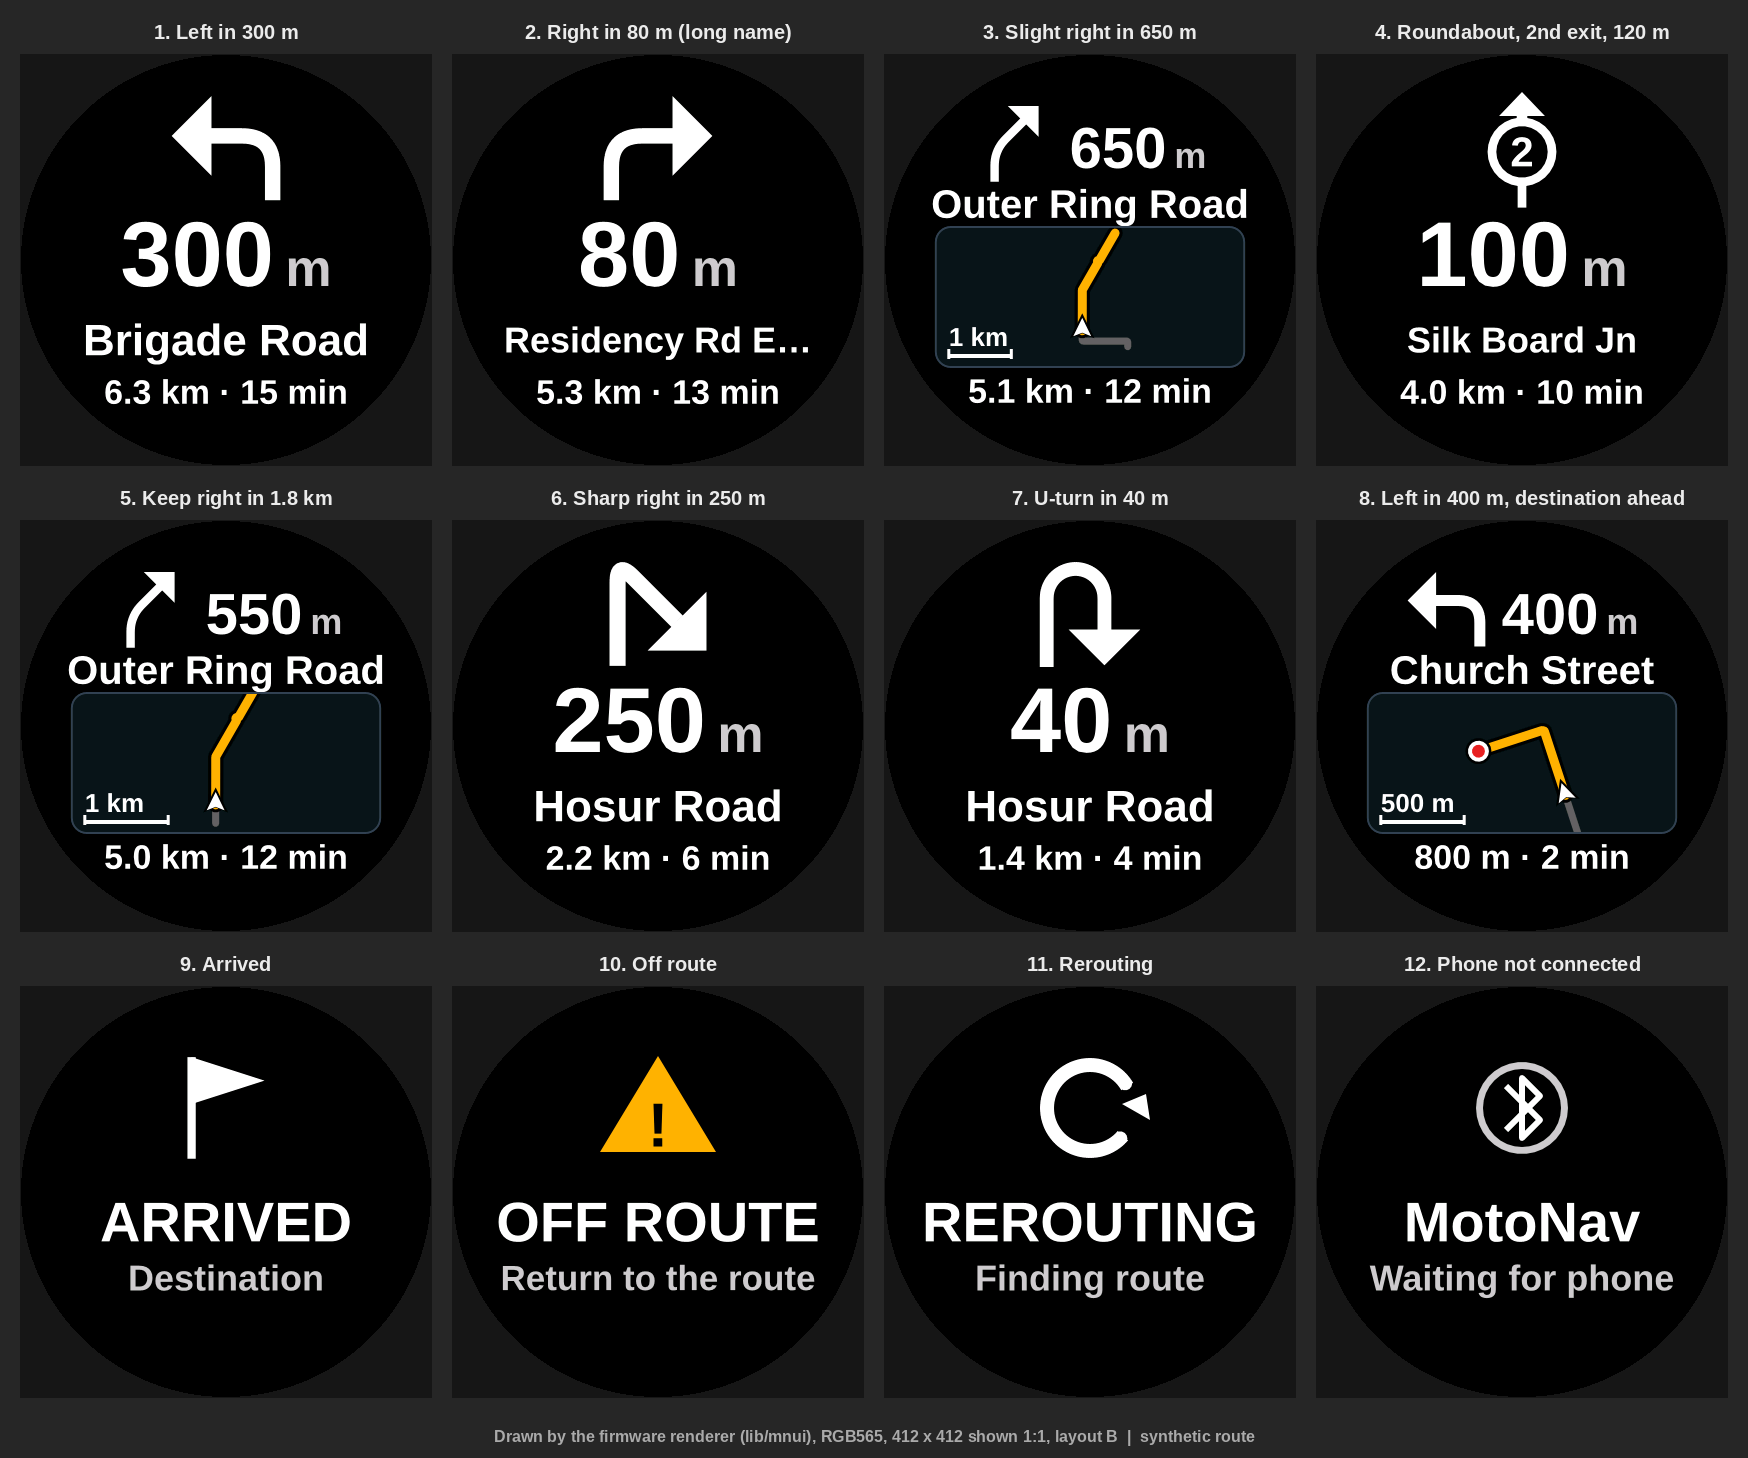
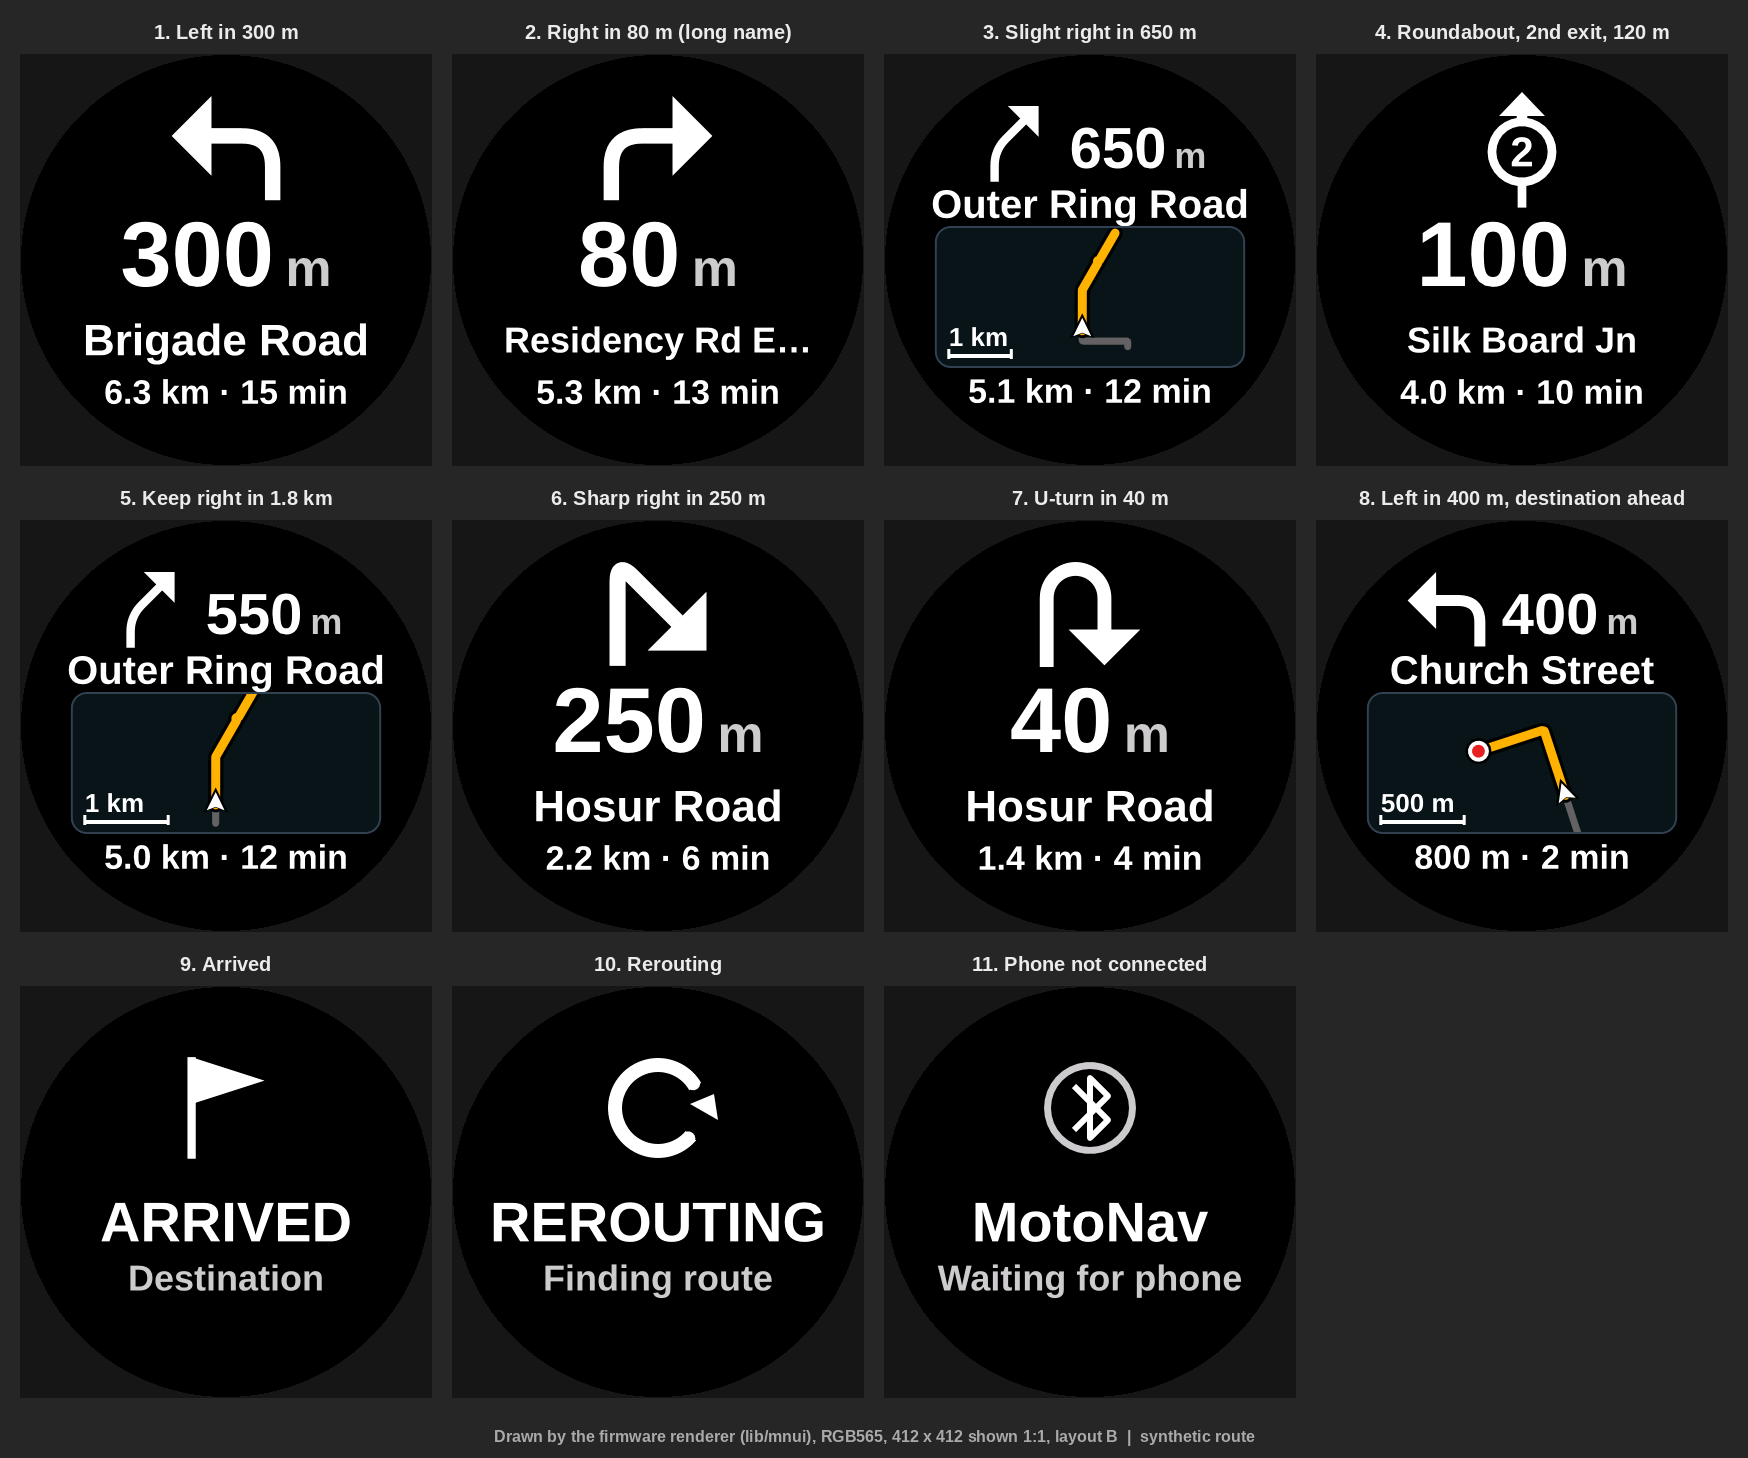
Remove the 'off route' screen from the 412x412 display
The Google Navigation SDK never reports 'off route'; it goes straight to rerouting, so the screen
could not appear. The protocol keeps OFF_ROUTE (the prototype firmware uses it); the new display
shows its rerouting screen for that mode, so a stray value cannot leave an odd screen.

Simulator and firmware changed together; tests added for both (mode 2 draws exactly the rerouting
screen). 41 Python tests pass, firmware passes 3,066 checks per random seed, ESP32-S3 image builds.

Claude-Session: https://claude.ai/code/session_015wYM2ZG5bt79QgTE7mMqEU

diff --git a/firmware/product-esp32s3/lib/mnui/mn_screens.cpp b/firmware/product-esp32s3/lib/mnui/mn_screens.cpp
@@ -131,16 +131,10 @@ void formatEta(uint32_t minutes, char *out, int cap) {
 
 // ---- status screens -----------------------------------------------------------------------------------------------
 
-// kind: 0 waiting for phone, 1 warning, 2 spinner, 3 flag
+// kind: 0 waiting for phone, 1 rerouting spinner, 2 flag
 void Ui::message(int kind, const char *line1, const char *line2) {
   const float cx = kC, cy = 122;
-  if (kind == 1) {                                                  // warning triangle with "!"
-    dl_.beginOp(kAmber);
-    float t[6] = {cx, cy - 52, cx + 58, cy + 44, cx - 58, cy + 44};
-    dl_.polygon(t, 3);
-    dl_.endOp();
-    textMid(dl_, "!", cx, cy + 17, 62, kBlack);
-  } else if (kind == 2) {                                           // rerouting spinner
+  if (kind == 1) {                                                  // rerouting spinner
     float arc[2 * 80];
     int n = 0;
     for (int a = 40; a <= 330 && n < 80; a += 5, n++) {
@@ -152,7 +146,7 @@ void Ui::message(int kind, const char *line1, const char *line2) {
     float h[6] = {cx + 56, cy - 14, cx + 32, cy - 4, cx + 60, cy + 12};
     dl_.polygon(h, 3);
     dl_.endOp();
-  } else if (kind == 3) {
+  } else if (kind == 2) {
     drawIcon(dl_, cx, cy, 110, MN_MAN_ARRIVE, 0, kWhite);
   } else {                                                          // waiting for the phone: ring with a Bluetooth rune
     dl_.beginOp(kSoft);
@@ -364,9 +358,9 @@ void Ui::update(const UiInput &in) {
   bool arriveMan = c.maneuver == MN_MAN_ARRIVE || c.maneuver == MN_MAN_ARRIVE_LEFT || c.maneuver == MN_MAN_ARRIVE_RIGHT;
   bool near = c.mode == MN_MODE_NAV && c.dist_to_maneuver_m <= kTurnSwitchM && c.maneuver != MN_MAN_NONE;
   if (near) { large_ = true; navLarge(in); return; }
-  if (c.mode == MN_MODE_OFF_ROUTE) message(1, "OFF ROUTE", "Return to the route");
-  else if (c.mode == MN_MODE_REROUTING) message(2, "REROUTING", "Finding route");
-  else if (c.mode == MN_MODE_ARRIVED || (arriveMan && c.dist_to_maneuver_m < 40)) message(3, "ARRIVED", in.street[0] ? in.street : "Destination");
+  // The Google feed never reports "off route" (it goes straight to rerouting), so both modes show the same screen.
+  if (c.mode == MN_MODE_REROUTING || c.mode == MN_MODE_OFF_ROUTE) message(1, "REROUTING", "Finding route");
+  else if (c.mode == MN_MODE_ARRIVED || (arriveMan && c.dist_to_maneuver_m < 40)) message(2, "ARRIVED", in.street[0] ? in.street : "Destination");
   else if (c.mode == MN_MODE_IDLE) message(0, "MotoNav", "Choose a destination");
   else navFull(in);
 }

diff --git a/firmware/product-esp32s3/test_host/test_mnui.cpp b/firmware/product-esp32s3/test_host/test_mnui.cpp
@@ -158,6 +158,33 @@ static void testBands() {
   CHECK(g[0] == 0xABCD && g[3] == 0xABCD && g[4 + kSize * 3] == 0xABCD && g[g.size() - 1] == 0xABCD);
 }
 
+static void testStatusScreens() {
+  Ui ui;
+  UiInput in;
+  in.connected = true;
+  in.hasCore = true;
+  in.core.version = 1; in.core.maneuver = MN_MAN_LEFT; in.core.dist_to_maneuver_m = 800; in.core.remaining_dist_m = 5000;
+  in.core.eta_minutes = 12;
+  strcpy(in.street, "Brigade Road");
+  // the protocol's OFF_ROUTE mode has no screen of its own: it shows the rerouting screen
+  in.core.mode = MN_MODE_REROUTING;
+  ui.update(in);
+  auto rer = renderAll(ui.list());
+  in.core.mode = MN_MODE_OFF_ROUTE;
+  ui.update(in);
+  CHECK(renderAll(ui.list()) == rer);
+  CHECK(!ui.lastWasLarge());                              // status screens never use the large-arrow screen
+  // and each status screen differs from the others
+  in.core.mode = MN_MODE_ARRIVED; ui.update(in); auto arrived = renderAll(ui.list());
+  in.core.mode = MN_MODE_IDLE; ui.update(in); auto idle = renderAll(ui.list());
+  in.connected = false; ui.update(in); auto waiting = renderAll(ui.list());
+  CHECK(rer != waiting && arrived != waiting);
+  CHECK(rer != arrived);
+  CHECK(rer != idle);
+  CHECK(arrived != idle);
+  CHECK(idle != waiting);
+}
+
 static void testPools() {
   DisplayList dl;
   for (int i = 0; i < kMaxOps + 50; i++) {
@@ -333,6 +360,7 @@ int main(int argc, char **argv) {
   if (argc > 1) g_seed = static_cast<uint32_t>(atoi(argv[1]));      // ./test_mnui 7 : another random sequence
   testShapes();
   testBands();
+  testStatusScreens();
   testPools();
   testText();
   testFormats();

diff --git a/tools/minimap_sim/render.py b/tools/minimap_sim/render.py
@@ -357,11 +357,7 @@ def _bottom(panel: Panel, state: DeviceState, y: float, size: float = 34) -> Ele
 def _message(panel: Panel, kind: str, line1: str, line2: str) -> None:
     el, d = panel.layer("icon")
     cx, cy = CX, 122
-    if kind == "warn":
-        d.polygon([(cx * SS, (cy - 52) * SS), ((cx + 58) * SS, (cy + 44) * SS), ((cx - 58) * SS, (cy + 44) * SS)], fill=AMBER)
-        f = fonts.font(62 * SS)
-        d.text((cx * SS, (cy + 17) * SS), "!", font=f, fill=BLACK, anchor="mm")
-    elif kind == "spin":
+    if kind == "spin":
         d.arc([(cx - 50) * SS, (cy - 50) * SS, (cx + 50) * SS, (cy + 50) * SS], 40, 330, fill=WHITE, width=14 * SS)
         d.polygon([((cx + 56) * SS, (cy - 14) * SS), ((cx + 32) * SS, (cy - 4) * SS), ((cx + 60) * SS, (cy + 12) * SS)], fill=WHITE)
     elif kind == "flag":
@@ -381,9 +377,7 @@ def render_a(state: DeviceState, view: Optional[ViewState] = None) -> Tuple[Imag
     c = state.core
     if not state.connected or c is None:
         _message(p, "wait", "MotoNav", "Waiting for phone")
-    elif c.mode == wire.MODE_OFF_ROUTE:
-        _message(p, "warn", "OFF ROUTE", "Return to the route")
-    elif c.mode == wire.MODE_REROUTING:
+    elif c.mode in (wire.MODE_REROUTING, wire.MODE_OFF_ROUTE):      # the Google feed never says "off route"; same screen
         _message(p, "spin", "REROUTING", "Finding route")
     elif c.mode == wire.MODE_ARRIVED or c.maneuver in (wire.MAN_ARRIVE, wire.MAN_ARRIVE_LEFT, wire.MAN_ARRIVE_RIGHT) and c.dist_m < 40:
         _message(p, "flag", "ARRIVED", state.street or "Destination")

diff --git a/tools/minimap_sim/test_minimap_sim.py b/tools/minimap_sim/test_minimap_sim.py
@@ -264,6 +264,16 @@ class RenderTest(unittest.TestCase):
         self.assertTrue(render.render(near, "B")[2].get("large"))
         self.assertNotIn("large", render.render(near, "A")[2])
 
+    def test_off_route_mode_shows_the_rerouting_screen_and_no_warning_screen_exists(self):
+        """The Google feed never says 'off route', so the device has no such screen. A stray mode 2 must not draw anything odd."""
+        base = self.tiles[1][1]
+        for layout in "AB":
+            off, meta_off, _ = render.render(minimap_sim._with_mode(base, wire.MODE_OFF_ROUTE), layout)
+            rer, meta_rer, _ = render.render(minimap_sim._with_mode(base, wire.MODE_REROUTING), layout)
+            self.assertEqual(off.tobytes(), rer.tobytes())
+            self.assertEqual(meta_off["line1"].text, "REROUTING")
+        self.assertNotIn("Off route", [title for title, _ in self.tiles])
+
     def test_distance_formats(self):
         f = render.fmt_dist
         self.assertEqual(f(8), ("10", "m"))

diff --git a/firmware/product-esp32s3/lib/mnui/mn_screens.h b/firmware/product-esp32s3/lib/mnui/mn_screens.h
@@ -26,7 +26,7 @@ class Ui {
  public:
   // Builds the display list for the current state. Layout B: the full screen (arrow, distance, street, map, distance
   // left and minutes left) while the next manoeuvre is far, a large-arrow screen without the map when it is near, and
-  // status screens (off route, rerouting, arrived, waiting for phone).
+  // status screens (rerouting, arrived, waiting for phone). The protocol's OFF_ROUTE mode shows the rerouting screen.
   void update(const UiInput &in);
   // Forget the map zoom (the zoom is kept from frame to frame so it does not flicker).
   void resetView() { mpp_ = 0; }

diff --git a/tools/minimap_sim/test_firmware_parity.py b/tools/minimap_sim/test_firmware_parity.py
@@ -1,6 +1,6 @@
 """The firmware renderer (firmware/product-esp32s3/lib/mnui, compiled for the PC) against this simulator.
 
-Both draw the same 12 situations from the same raw BLE bytes. They use different rasterisers (the simulator supersamples
+Both draw the same 11 situations from the same raw BLE bytes. They use different rasterisers (the simulator supersamples
 4x and filters; the firmware anti-aliases with 8 sub-scanlines), so the images are not identical; these tests bound how
 different they may be, and check that the structure agrees (layout chosen, zoom, same text, nothing outside the circle).
 

diff --git a/tools/minimap_sim/firmware_sheet.py b/tools/minimap_sim/firmware_sheet.py
@@ -1,5 +1,5 @@
 #!/usr/bin/env python3
-"""Contact sheet drawn by the FIRMWARE renderer (firmware/product-esp32s3/lib/mnui, compiled for the PC): the 12 situations of
+"""Contact sheet drawn by the FIRMWARE renderer (firmware/product-esp32s3/lib/mnui, compiled for the PC): the 11 situations of
 sheet_B.png, but every pixel comes from the code that will run on the ESP32-S3.
 
     python3 firmware_sheet.py [OUT.png]

diff --git a/tools/minimap_sim/minimap_sim.py b/tools/minimap_sim/minimap_sim.py
@@ -60,7 +60,6 @@ def build_tiles() -> List[Tuple[str, DeviceState]]:
     near_end = _nav_tile(8, 15)
     tiles += [
         ("Arrived", _with_mode(near_end, wire.MODE_ARRIVED)),
-        ("Off route", _with_mode(_nav_tile(1, 200), wire.MODE_OFF_ROUTE)),
         ("Rerouting", _with_mode(_nav_tile(1, 200), wire.MODE_REROUTING)),
         ("Phone not connected", DeviceState()),
     ]

diff --git a/tools/minimap_sim/README.md b/tools/minimap_sim/README.md
@@ -26,10 +26,10 @@ Needs Python 3.10+, `Pillow` and `numpy` (`pip install pillow numpy`). `g++` is 
 cd tools/minimap_sim
 python3 minimap_sim.py all            # contact sheets, legibility table, sunlight preview, ride GIFs -> samples/
 python3 minimap_sim.py one --step 3 --dist 120 --layout B     # a single screen
-python3 -m unittest -v                # 40 tests, about 1 minute (includes the firmware renderer, needs g++)
+python3 -m unittest -v                # 41 tests, about 1 minute (includes the firmware renderer, needs g++)
 ```
 
-Already generated in [`samples/`](samples): `sheet_A.png`, `sheet_B.png` (12 screens each, shown 1:1), `sun_preview.png`,
+Already generated in [`samples/`](samples): `sheet_A.png`, `sheet_B.png` (11 screens each, shown 1:1), `sun_preview.png`,
 `legibility.md`, `ride_A.gif`, `ride_B.gif`.
 
 ## The two layouts
@@ -39,13 +39,14 @@ Already generated in [`samples/`](samples): `sheet_A.png`, `sheet_B.png` (12 scr
 * **B: adaptive**: layout A while the next turn is far away; when it is 300 m or less the screen switches to a large arrow
   and distance and the map is hidden. (This answers "will it be hard to read?" by making the turn screen big.)
 
-Both also draw: off route, rerouting, arrived, and "waiting for phone". India drives on the left, so roundabouts run
+Both also draw: rerouting, arrived, "choose a destination" and "waiting for phone". There is no "off route" screen: the Google
+feed never reports it (it goes straight to rerouting), so the protocol's OFF_ROUTE mode shows the rerouting screen. India drives on the left, so roundabouts run
 clockwise (exit 1 is a left turn) and the standard U-turn is the clockwise one.
 
 ## What the checks say (read these before choosing a layout)
 
 1. **Everything fits inside the circle.** Every lit pixel of every element is checked to be at least 12 px from the edge
-   (`render.outside_violations`, asserted in the tests for all 12 screens in both layouts). The 12 px is an *assumption*
+   (`render.outside_violations`, asserted in the tests for all 11 screens in both layouts). The 12 px is an *assumption*
    for the bezel/bonding mask; replace it with the panel drawing's value.
 2. **Text size.** Distance and arrow meet the target; **street and "distance · minutes left" do not** on layout A. They are
    limited by the circle: the bottom row sits where the chord is narrow, so it cannot be bigger.
@@ -110,7 +111,7 @@ control, vibration, the touch of the real display driver (QSPI) and any firmware
 | `sun.py` | Rough sunlight preview and contrast numbers |
 | `minimap_sim.py` | Command line: sheets, tables, GIFs |
 | `device_decode.cpp` | Test harness around the real firmware decoder |
-| `test_minimap_sim.py` | 31 tests of the simulator |
+| `test_minimap_sim.py` | 32 tests of the simulator |
 | `test_firmware_parity.py` | 9 tests: the firmware renderer (`firmware/product-esp32s3`) compiled for the PC against this simulator |
 
 ## Next

diff --git a/README.md b/README.md
@@ -21,7 +21,7 @@ Start here: [`docs/ONE_HOUR_QUICKSTART.md`](docs/ONE_HOUR_QUICKSTART.md).
 | Android app | **Runs on a real phone** (Samsung SM-G781B): Google Navigation SDK turn-by-turn feed verified, destination via **Share from Google Maps**, 31 unit tests pass. |
 | Map feed | The app now sends the **route line and your position** to the device (new, additive `NavRoute`/`NavPos`); the firmware receives and stores them (not drawn yet: needs the colour panel). Built and tested: 117 Android unit tests pass in the real build, the firmware builds for the ESP32, 240 C++ checks pass. **Not yet tried on a phone with the device.** See `protocol/README.md`. |
 | Route follower | Built and tested (57 unit tests, now also run in the Android build), **not yet used as a data source**: the map feed uses Google's route today. Parser not yet checked against live Ola Maps / Mappls responses. See `android/README.md`. |
-| Display simulator | **PC simulation of the 412×412 round panel** (`tools/minimap_sim`): two layouts, mini-map, legibility numbers, sunlight preview, ride animation. 31 tests, including a run of the simulator's bytes through the real firmware decoder. Panel size and sunlight figures are **assumptions** until the panel datasheet is read. |
+| Display simulator | **PC simulation of the 412×412 round panel** (`tools/minimap_sim`): two layouts, mini-map, legibility numbers, sunlight preview, ride animation. 41 tests, including a run of the simulator's bytes through the real firmware decoder. Panel size and sunlight figures are **assumptions** until the panel datasheet is read. |
 | Panel firmware | **Layout B renderer for the 412×412 panel** (`firmware/product-esp32s3`): matches the simulator on the PC, builds for the ESP32-S3. **Never run on a chip, and the panel driver does not exist yet** (needs the panel's controller datasheet). See its README. |
 | Still to prove | Locked-screen reliability, sunlight readability, battery life, vibration/waterproofing — see `docs/HARDWARE_ROADMAP.md`. |
 

diff --git a/firmware/product-esp32s3/README.md b/firmware/product-esp32s3/README.md
@@ -2,7 +2,9 @@
 
 Draws the display you chose (layout B of [`tools/minimap_sim`](../../tools/minimap_sim)) from the data the phone sends over
 Bluetooth: big arrow and distance when a turn is near, and arrow, distance, street, north-up route map, distance left and
-minutes left otherwise, plus off route / rerouting / arrived / waiting-for-phone screens.
+minutes left otherwise, plus rerouting / arrived / choose-a-destination / waiting-for-phone screens. There is no separate "off route" screen: the
+Google Navigation SDK never reports it (it goes straight to rerouting), so the protocol's OFF_ROUTE mode shows the rerouting
+screen.
 
 ## Status: read this first
 
@@ -75,7 +77,7 @@ g++ -std=c++17 -g -O1 -Wall -Wextra -fsanitize=address,undefined -I lib/mnui -I 
 
 What the tests check:
 
-* **Parity with the simulator**: the same 12 screens from the same raw BLE bytes (decoded by the real `nav_route.h`);
+* **Parity with the simulator**: the same 11 screens from the same raw BLE bytes (decoded by the real `nav_route.h`);
   mean difference under 3/255, under 1.2 % of pixels differing strongly, same layout chosen, same map zoom, same text
   widths (kerning included), a ride's zoom sequence unchanged frame by frame.
 * **Rasteriser**: circle area within 0.4 %, half-covered pixels at 50 %, overlapping shapes unite, holes stay empty,

diff --git a/protocol/README.md b/protocol/README.md
@@ -20,7 +20,7 @@ The phone is the BLE **central**; the device is the **peripheral** advertising a
 | Offset | Type | Field |
 |--------|------|-------|
 | 0 | u8 | `version` (= 1; other values are rejected) |
-| 1 | u8 | `mode`: 0 IDLE · 1 NAV · 2 OFF_ROUTE · 3 REROUTING · 4 ARRIVED |
+| 1 | u8 | `mode`: 0 IDLE · 1 NAV · 2 OFF_ROUTE · 3 REROUTING · 4 ARRIVED. (The Google feed never sends 2; the 412 x 412 display shows its rerouting screen for it) |
 | 2 | u8 | `maneuver` (enum below) |
 | 3 | u8 | `roundabout_exit` (0 = unknown) |
 | 4 | u16 | `seq` — increments per packet; gaps reveal dropped packets |
